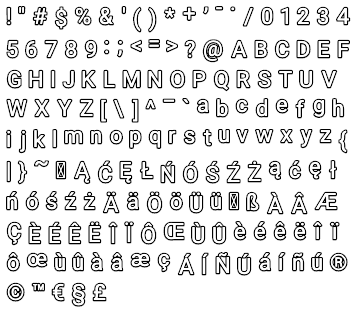
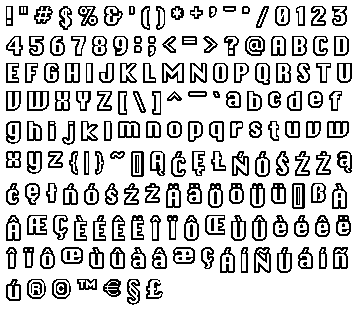
...

diff --git a/Engine/Ssit.CrossX.Editor/ViewModels/EditorViewModel.cs b/Engine/Ssit.CrossX.Editor/ViewModels/EditorViewModel.cs
@@ -410,6 +410,7 @@ namespace Ssit.CrossX.Editor.ViewModels
                     
                     var color = new RgbaColor(layer.TintColor.R, layer.TintColor.G, layer.TintColor.B, (byte)(alpha * layer.TintColor.A / 255));
                     
+                    _skPaint.Color = SKColors.White;
                     _skPaint.ColorFilter = GetFilter(color);
                     
                     RenderLayer(layer, skCanvas, grContext, width, height);
@@ -596,7 +597,10 @@ namespace Ssit.CrossX.Editor.ViewModels
                 var obj = layer.Objects[idx];
 
                 if (obj.HasLogic && !showObjects)
+                {
+                    ++idx;
                     continue;
+                }
 
                 try
                 {
@@ -714,20 +718,30 @@ namespace Ssit.CrossX.Editor.ViewModels
                 skCanvas.DrawImage(img, srcRect, destRect, skPaint);
             }
 
-            skPaint.ColorFilter = oldFilter;
-
             if (SelectedObject == mapObject?.Id)
             {
-                _skPaint.Color = SKColors.Orange.WithAlpha(192);
-                _skPaint.IsStroke = true;
+                skPaint.ColorFilter = null;
+                skPaint.Color = SKColors.Orange.WithAlpha(192);
+                skPaint.IsStroke = true;
                 
-                skCanvas.DrawRect(rect.ToSkia(), _skPaint);
+                skCanvas.DrawRect(rect.ToSkia(), skPaint);
                 
-                _skPaint.Color = SKColors.GreenYellow.WithAlpha(192);
-                skCanvas.DrawLine(pos.X + 10, pos.Y + 10, pos.X - 10, pos.Y - 10, _skPaint);
-                skCanvas.DrawLine(pos.X + 10, pos.Y - 10, pos.X - 10, pos.Y + 10, _skPaint);
+                skPaint.Color = SKColors.GreenYellow.WithAlpha(192);
+                skCanvas.DrawLine(pos.X + 10, pos.Y + 10, pos.X - 10, pos.Y - 10, skPaint);
+                skCanvas.DrawLine(pos.X + 10, pos.Y - 10, pos.X - 10, pos.Y + 10, skPaint);
             }
-
+            else if ( layer == SelectedLayer && !IsFullscreen)
+            {
+                skPaint.ColorFilter = null;
+                skPaint.Color = SKColors.Orange.WithAlpha(64);
+                skPaint.IsStroke = true;
+                
+                skCanvas.DrawRect(rect.ToSkia(), skPaint);
+            }
+            
+            skPaint.Color = SKColors.White;
+            skPaint.ColorFilter = oldFilter;
+            
             return rect;
         }
 
@@ -767,7 +781,7 @@ namespace Ssit.CrossX.Editor.ViewModels
             var maxX = SelectedLayer.Width - (float)template.TargetSize.Width / template.TileSize;
             var minX = 0;
 
-            var maxY = SelectedLayer.Height;// + (float)Template.TargetHeight / Template.TileSize / 4f;
+            var maxY = SelectedLayer.Height;
             var minY = (float)template.TargetSize.Height / template.TileSize;
 
             var ox = Math.Max(minX, Math.Min(maxX, Offset.X));